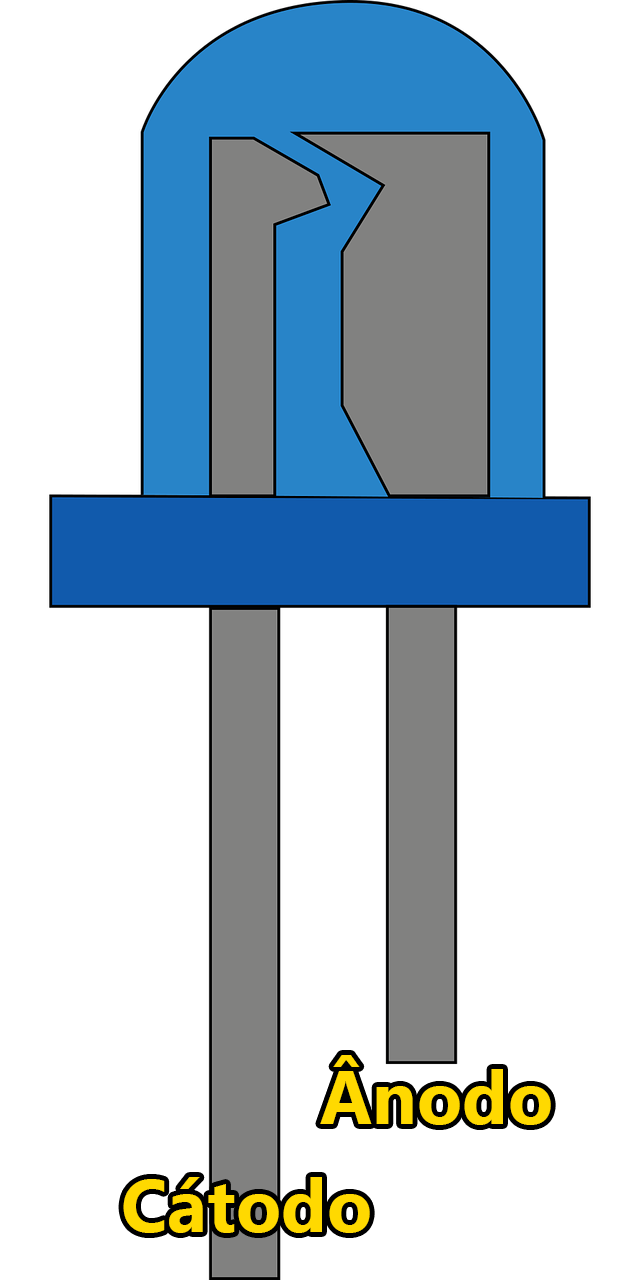
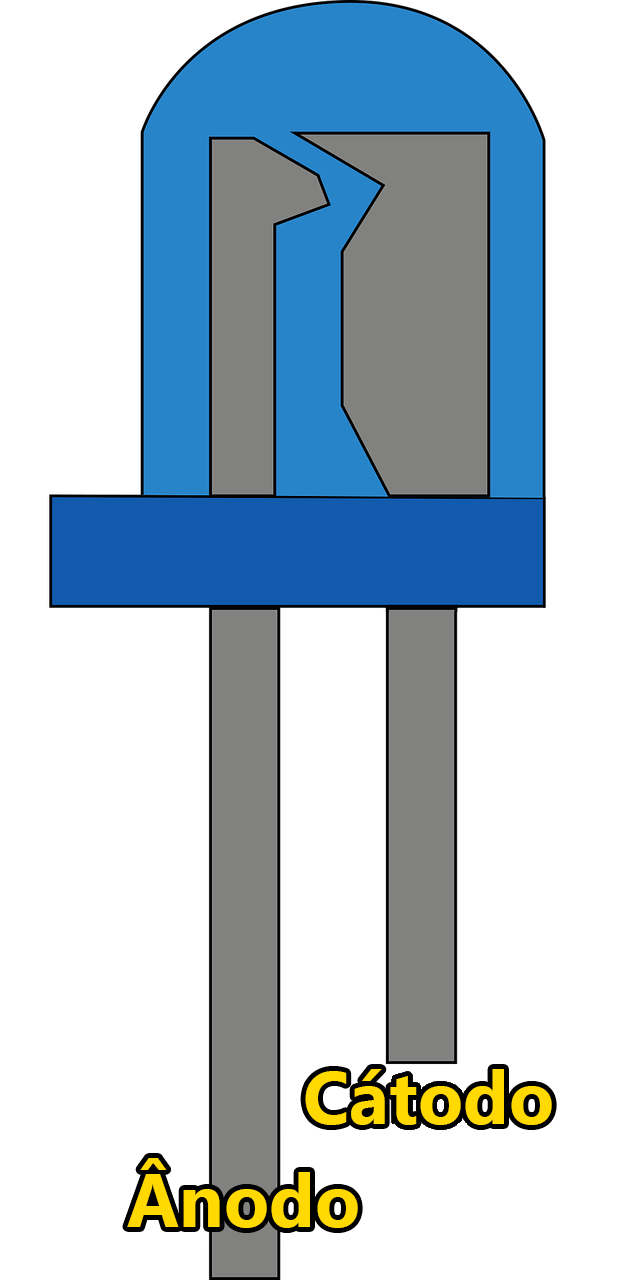
Imagem do LED com polaridade invertida Método mais fácil de identificar a polaridade do LED

Changed region(s): [[0.1875, 0.8125, 0.875, 0.9688], [0.8438, 0.375, 0.9375, 0.5]]

diff --git a/hardware/led.html b/hardware/led.html
@@ -150,7 +150,7 @@
                         <h1><a class="header" href="#led" id="led">LED</a></h1>
 <p>A sigla LED vem do termo light-emitting diode (diodo emissor de luz). São componentes que, quando percorridos por uma corrente elétrica, são capazes de emitir luz. A luz emitida pode ser de diferentes cores, mas um LED também pode emitir luz fora do espectro visível, como a ultravioleta e a infravermelha (muito utilizada para comunicações entre dispositivos, como o controle remoto e uma televisão).</p>
 <p>LEDs estão presentes em diversas áreas de eletrônica por terem uma longa vida útil, custo de manutenção e fabricação reduzido e pela sua versatilidade. Serão muito utilizados nos projetos de arduino deste curso</p>
-<p>Um LED comum possui dois terminais, chamados de ânodo (positivo) e cátodo (negativo). Para a identificação dos terminais, basta observar qual deles é o maior, sendo este o ânodo. Também é possível identificá-los olhando para dentro do LED, onde há duas placas de metal: a placa mais larga identifica o ânodo.</p>
+<p>Um LED comum possui dois terminais, chamados de ânodo (positivo) e cátodo (negativo). Para a identificação dos terminais, basta observar qual deles é o maior, sendo este o ânodo. Também é possível identificá-los olhando a borda externa na base do LED: o lado que possui um chanfro é o cátodo.</p>
 <p><a href="image.png"><img src="images/led.png" width="250"/></a></p>
 <p>Para o funcionamento de um LED, é necessário alimentá-lo com energia corrente. A faixa de operação geralmente é de 6 a 20 mA, com uma tensão de 1 a 3,3V. Tais valores variam de acordo com o tamanho e o modelo, por isso é recomendado verificar as especificações fornecidas pelo fabricante. Normalmente, os LEDs são acompanhados por resistores para ajustar a tensão e a corrente, para prevenir que haja a “queima” do mesmo</p>
 
